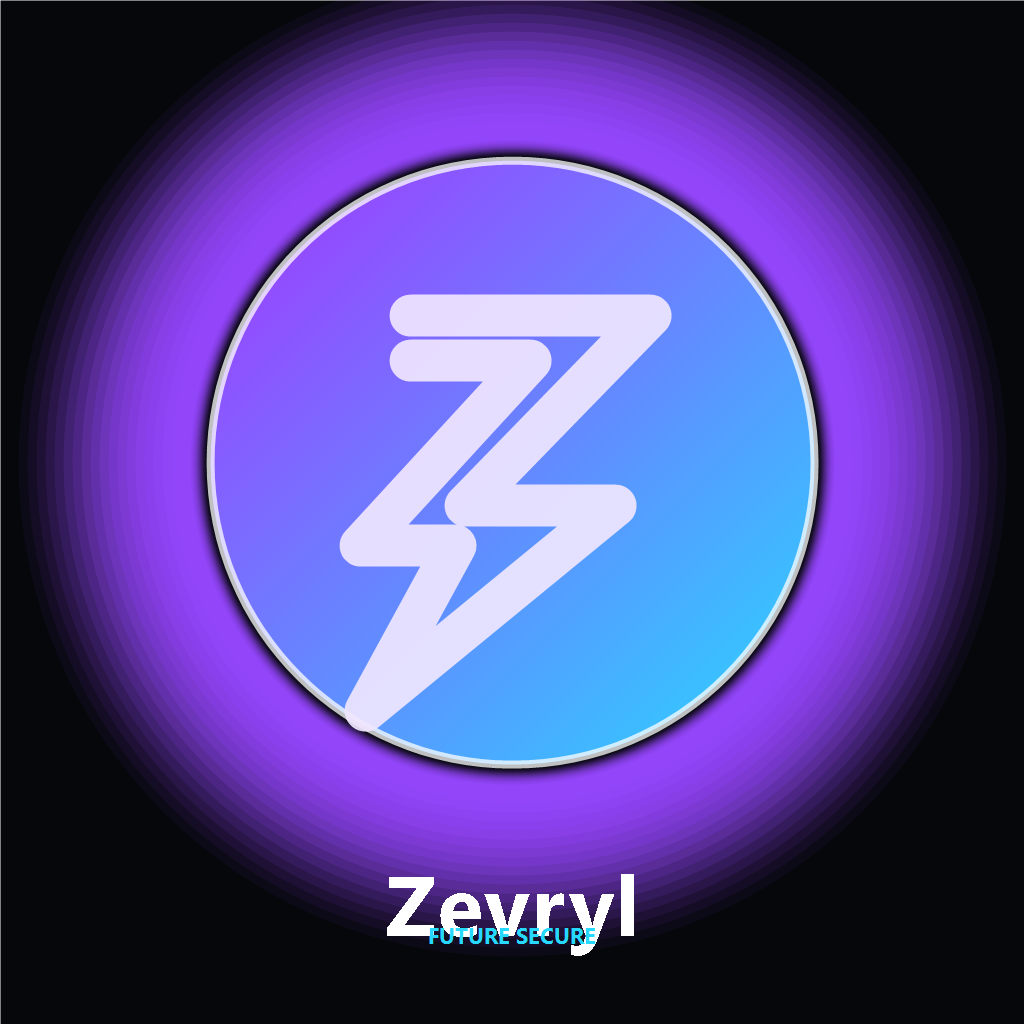
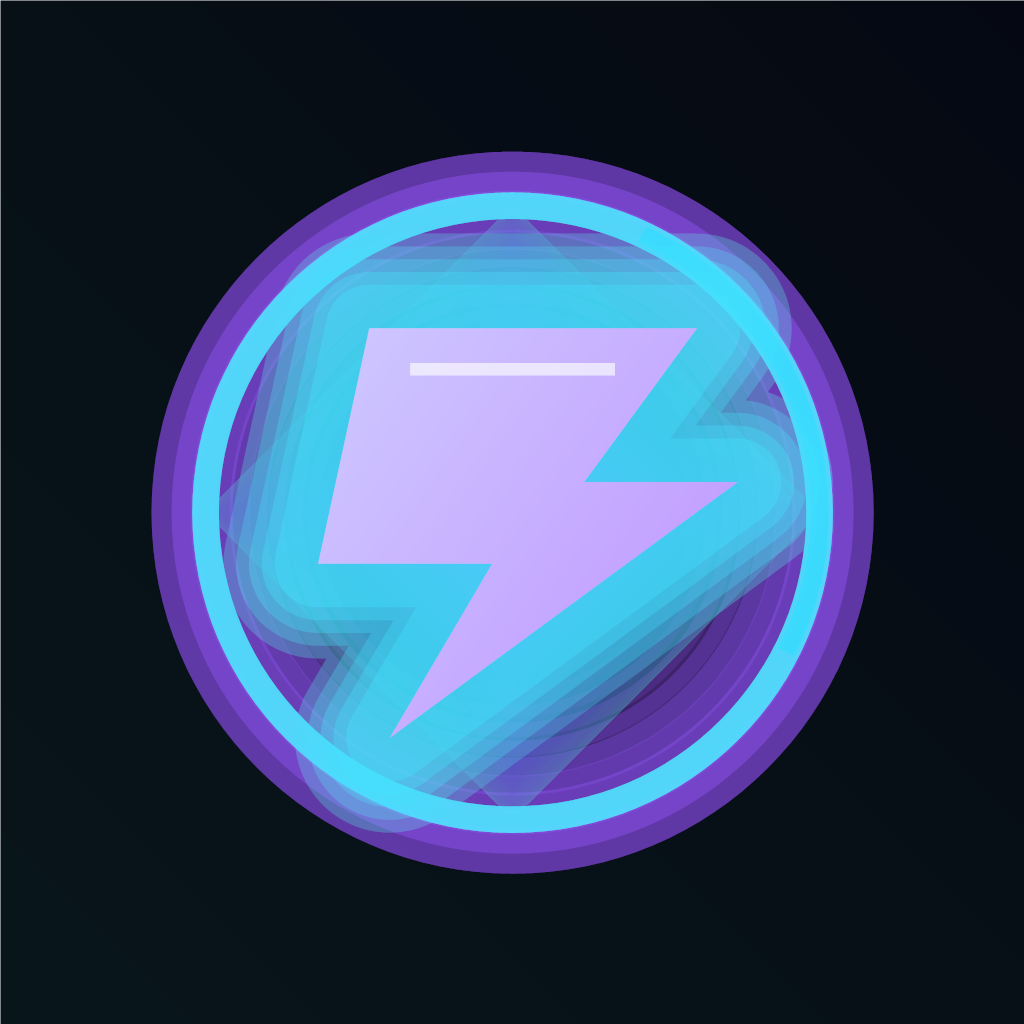
Fix mobile startup updates config and refresh branding

diff --git a/apps/mobile/app.config.js b/apps/mobile/app.config.js
@@ -2,6 +2,7 @@ const app = require('./app.json');
 
 const projectId = process.env.EAS_PROJECT_ID;
 const apiUrl = process.env.EXPO_PUBLIC_API_URL || app.expo.extra?.apiUrl;
+const updatesEnabled = Boolean(projectId);
 
 module.exports = {
   expo: {
@@ -13,6 +14,7 @@ module.exports = {
     },
     updates: {
       ...app.expo.updates,
+      enabled: updatesEnabled,
       url: projectId ? `https://u.expo.dev/${projectId}` : app.expo.updates?.url
     }
   }